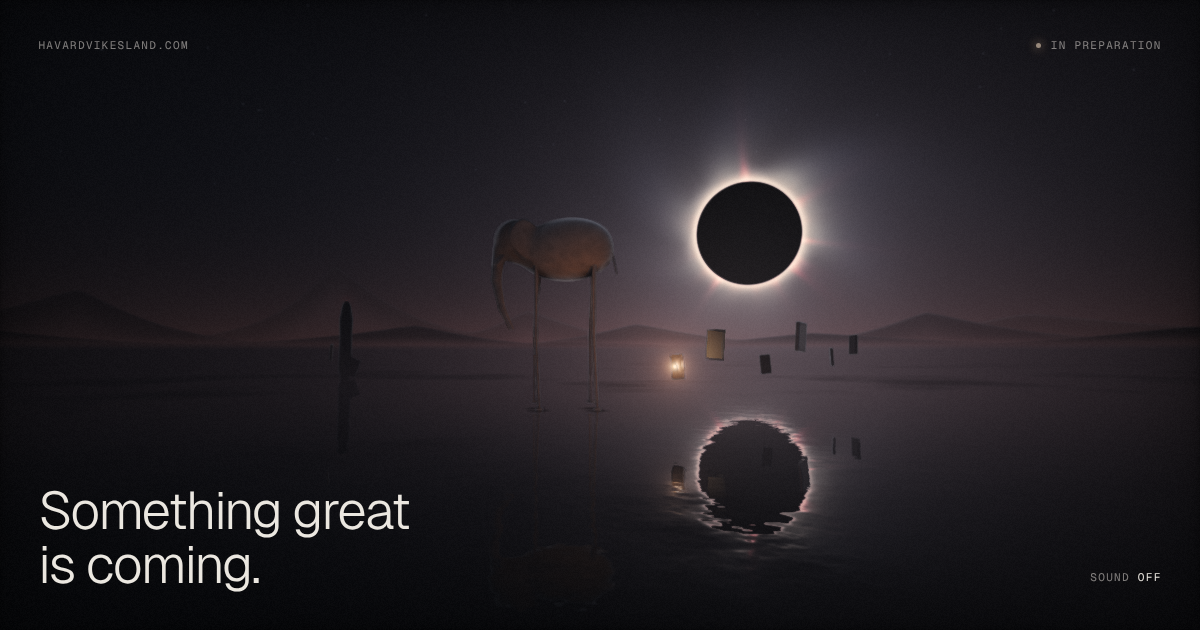
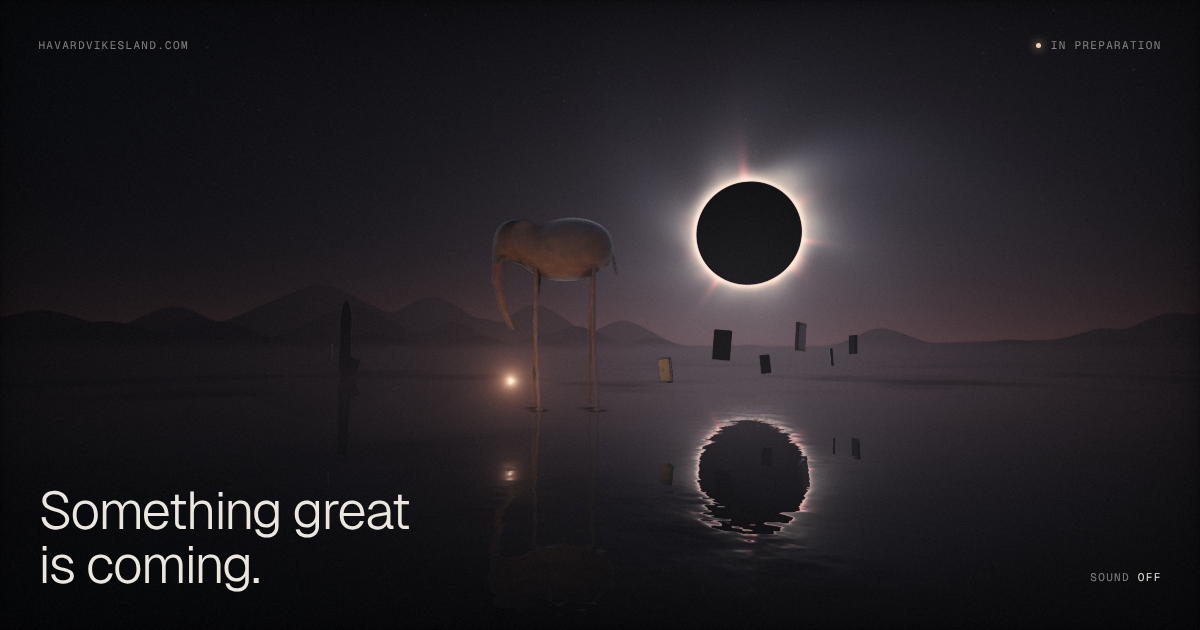
Mountains: darker silhouettes and continuous ridgelines
- Shape comes from darkening, not lightening: every range is a darker
  shade of the waterline colour (the fog where sea meets horizon), far
  ranges just below it, near ones deeper. No bright valley mist, no crest
  rim; each range settles into exactly the waterline colour at its foot,
  so nothing is brighter below than where it meets the sea.
- Ranges are continuous ridgelines: chains of straight-flanked summits
  h - s*sqrt(dx^2 + r^2) with shoulder summits and a low connecting base,
  joined by a smooth maximum; hashed spacing, height and slope; quieter
  under the eclipse, a taller massif to the left.
- New social preview image.

Claude-Session: https://claude.ai/code/session_014tw2Te8BpsaBHUzwRGrP9G

diff --git a/public/main.js b/public/main.js
@@ -450,30 +450,36 @@ vec3 twilight(vec3 rd) {
   return mix(vec3(0.017, 0.012, 0.013), vec3(0.034, 0.019, 0.016), smoothstep(-0.2, 0.9, dot(rd, uSun))) * band;
 }
 
-// Mountains as composed curves rather than noise. Each peak is an inverse
-// falloff, h / (1 + |x/w|^1.3)^2: a firm crest with long concave flanks, with
-// its own width on each side; neighbours join with a smooth maximum.
-// Per peak: centre azimuth, height, left width, right width.
-const vec4 PEAKS[12] = vec4[12](
-  // far
-  vec4(-0.42, 0.13, 0.13, 0.2), vec4(-0.12, 0.068, 0.16, 0.22), vec4(0.62, 0.052, 0.3, 0.4),
-  // middle
-  vec4(-0.72, 0.078, 0.2, 0.16), vec4(0.06, 0.046, 0.22, 0.28), vec4(0.5, 0.058, 0.18, 0.24),
-  // nearer
-  vec4(-0.3, 0.042, 0.3, 0.24), vec4(0.34, 0.03, 0.34, 0.42), vec4(-1.0, 0.05, 0.3, 0.25),
-  // nearest, long and low
-  vec4(-0.85, 0.032, 0.36, 0.3), vec4(0.78, 0.03, 0.3, 0.36), vec4(-0.05, 0.016, 0.5, 0.5)
-);
-
+// Mountain ridgelines: each range is a chain of summits with straight flanks,
+// h - s * sqrt(dx^2 + r^2) (r rounds the crest), joined by a smooth maximum so
+// valleys stay soft. Summits are spaced along the azimuth with hashed jitter,
+// height and slope; ranges dip under the eclipse and rise toward the left.
+float hash11(float p) { p = fract(p * 0.1031); p *= p + 33.33; p *= p + p; return fract(p); }
 float smax(float a, float b, float k) { float h = max(k - abs(a - b), 0.0) / k; return max(a, b) + h * h * k * 0.25; }
 
+// quieter under the eclipse, a taller massif to the left
+float rangeEnv(float x) {
+  return (1.0 - 0.6 * exp(-pow((x - 0.25) / 0.28, 2.0))) * (0.75 + 0.45 * exp(-pow((x + 0.45) / 0.45, 2.0)));
+}
+
 float rangeHeight(int layer, float az) {
-  float h = 0.004;
-  for (int k = 0; k < 3; k++) {
-    vec4 pk = PEAKS[layer * 3 + k];
-    float x = (az - pk.x) / (az < pk.x ? pk.z : pk.w);
-    float f = 1.0 / (1.0 + pow(abs(x), 1.3));   // firm crest, long concave flanks
-    h = smax(h, pk.y * f * f, 0.01);
+  float L = float(layer);
+  float spacing = mix(0.19, 0.13, L / 3.0) * (L == 3.0 ? 1.4 : 1.0);
+  float top = L == 0.0 ? 0.11 : L == 1.0 ? 0.072 : L == 2.0 ? 0.046 : 0.026;
+  float slope = mix(0.62, 0.36, L / 3.0);
+  float h = top * 0.22 * rangeEnv(az);                  // a continuous base: one connected ridge
+  float cell = floor(az / spacing);
+  for (int k = -2; k <= 2; k++) {
+    float c = cell + float(k);
+    float seed = c * 7.13 + L * 31.7;
+    float xc = (c + 0.5 + 0.6 * (hash11(seed) - 0.5)) * spacing;
+    float hc = top * rangeEnv(xc) * (0.45 + 0.55 * hash11(seed + 1.7));
+    float s = slope * (0.8 + 0.4 * hash11(seed + 3.1));
+    float dx = az - xc;
+    h = smax(h, hc - s * sqrt(dx * dx + 0.0004), 0.014);
+    // a lower shoulder summit beside each peak
+    float dx2 = az - (xc + (hash11(seed + 5.3) - 0.5) * spacing * 0.9);
+    h = smax(h, hc * (0.55 + 0.2 * hash11(seed + 6.1)) - s * sqrt(dx2 * dx2 + 0.0003), 0.01);
   }
   return h;
 }
@@ -485,21 +491,18 @@ vec3 mountains(vec3 rd, vec3 col) {
   if (rd.y > 0.15 || rd.y < -0.01) return col;
   float az = atan(rd.x, -rd.z);
   float px = 1.5 / (uRes.y * uFocal);
-  float sa = acos(clamp(dot(rd, uSun), -1.0, 1.0)) / 0.35;
-  float fwd = 1.0 / (1.0 + sa * sa);
-  vec3 base = hazeColor(rd) + twilight(rd);
+  // the colour of the sea where it meets the horizon: every range is a darker shade of it
+  vec3 waterline = hazeColor(normalize(vec3(rd.x, 0.0, rd.z)));
   for (int i = ZERO; i < 4; i++) {
     float fi = float(i);
     float depth = fi / 3.0;                                     // 0 far .. 1 near
     float h = rangeHeight(i, az);
     float inside = smoothstep(h + px, h - px, rd.y);
     if (inside <= 0.0) continue;
-    float below = h - rd.y;
-    vec3 tone = base * mix(0.72, 0.18, depth) * mix(vec3(1.0), vec3(0.92, 1.0, 1.09), depth);
-    tone = mix(tone, base * mix(0.97, 0.72, depth), smoothstep(0.0, 0.06, below) * 0.85);
-    tone += COR_COL * 0.03 * fwd * (1.0 - 0.55 * depth) / (1.0 + (below / 0.0016) * (below / 0.0016));
-    // mist pools at the foot of every range: no hard base where it meets the water
-    tone = mix(base, tone, smoothstep(0.0, 0.028, rd.y));
+    // shape by darkening: far ranges just below the waterline, near ones deeper
+    vec3 tone = waterline * mix(0.84, 0.4, depth) * mix(vec3(1.0), vec3(0.94, 1.0, 1.07), depth);
+    // at the foot, settle into exactly the waterline colour: never brighter below
+    tone = mix(waterline, tone, smoothstep(0.0, 0.022, rd.y));
     col = mix(col, tone, inside);
   }
   return col;
